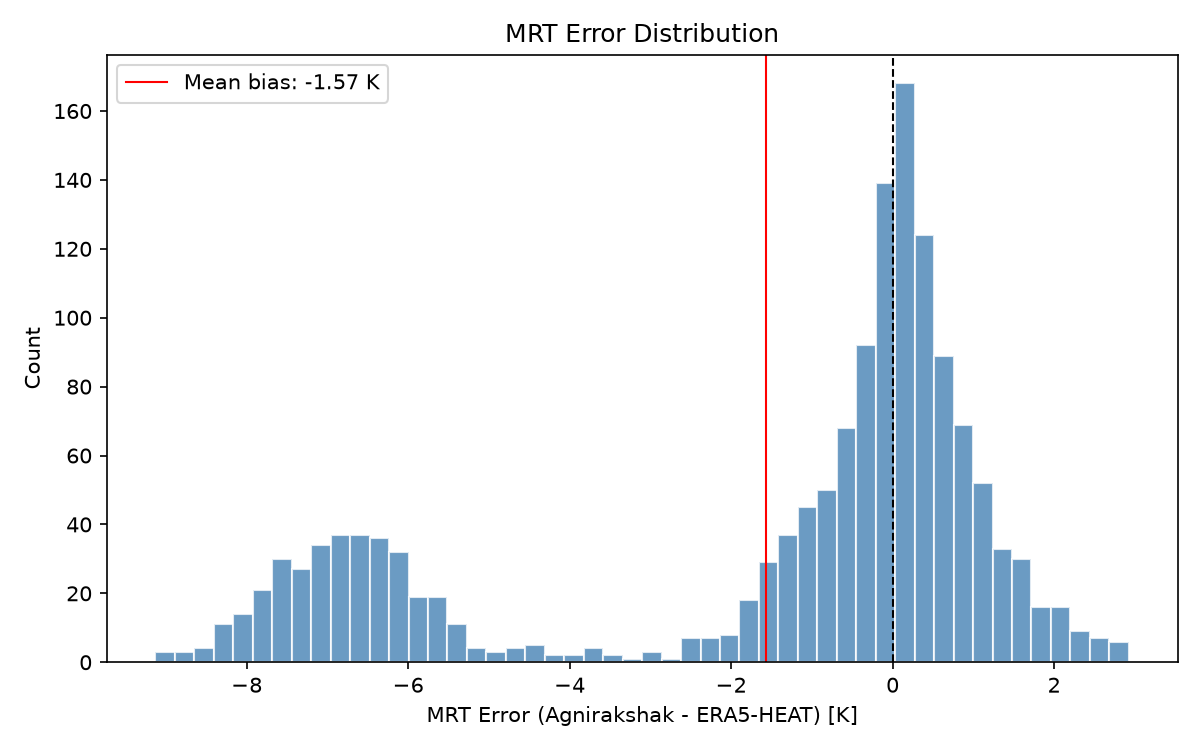
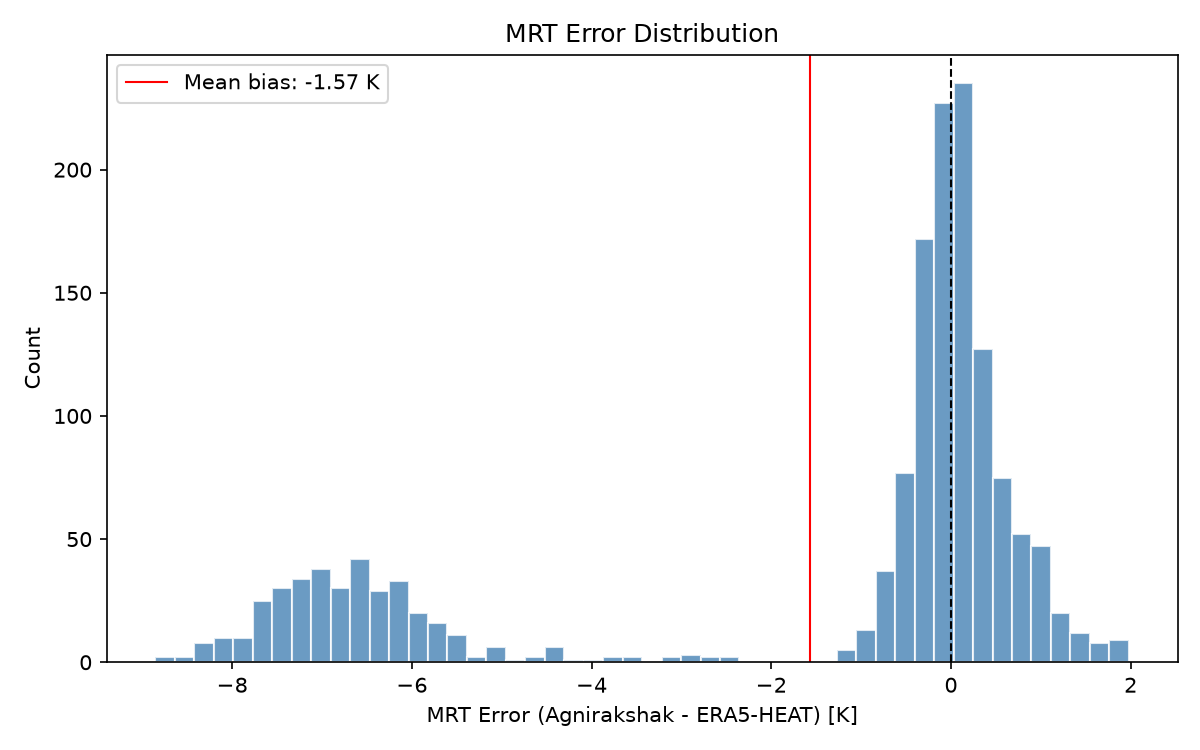
MRT validation: grid-alignment fix + updated metrics
- Add lat-flip in validate_mrt.py to handle reversed ERA5-HEAT lat grid
- Updated metrics: MAE 2.18->1.94 K, RMSE 3.45->3.37 K, nighttime MAE 0.57->0.27 K
- Updated plots and curated dataset
- Removed unused inspect_nc2.py

Low-sun residual (~6 K at elev<20 deg) remains as known limitation of
Di Napoli fp formula vs ERA5-HEAT implementation. High-sun match is
excellent (MAE 0.60 K, bias +0.39 K).

diff --git a/scripts/validate_mrt.py b/scripts/validate_mrt.py
@@ -147,6 +147,15 @@ def main():
     # Extract ERA5-HEAT MRT
     heat_mrt = ds_heat["mrt"].sel(valid_time=heat_common_mask).values
 
+    # Flip latitude axis if grids have different ordering
+    heat_lat = ds_heat["latitude"].values
+    rad_lat = ds_rad["latitude"].values
+    if not np.array_equal(heat_lat, rad_lat):
+        # Check if heat lat is reversed relative to rad lat
+        if np.array_equal(heat_lat, rad_lat[::-1]):
+            heat_mrt = heat_mrt[:, ::-1, :]
+            print(f"  NOTE: ERA5-HEAT lat grid reversed, flipping to match radiation grid")
+
     print(f"  ssrd:  [{np.nanmin(ssrd):.2f}, {np.nanmax(ssrd):.2f}] W/m2")
     print(f"  strd:  [{np.nanmin(strd):.2f}, {np.nanmax(strd):.2f}] W/m2")
     print(f"  fdir:  [{np.nanmin(fdir):.2f}, {np.nanmax(fdir):.2f}] W/m2")

diff --git a/docs/data/mrt_validation_v1.md b/docs/data/mrt_validation_v1.md
@@ -65,21 +65,21 @@ Implemented from Di Napoli et al. (2020) equations 6-12.
 | Metric | Value |
 |--------|-------|
 | N | 1488 |
-| MAE | 2.1823 K |
-| RMSE | 3.4467 K |
+| MAE | 1.9371 K |
+| RMSE | 3.3738 K |
 | Mean bias | -1.5651 K |
-| Median AE | 0.8655 K |
-| P95 AE | 7.4981 K |
-| R-squared | 0.971676 |
-| Correlation | 0.989749 |
+| Median AE | 0.4120 K |
+| P95 AE | 7.4009 K |
+| R-squared | 0.972862 |
+| Correlation | 0.990377 |
 
 ## 10. Stratified Results
 
 | Bin | N | MAE | Bias |
 |-----|---|-----|------|
-| (-90, 0] deg | 744 | 0.57 | -0.02 |
+| (-90, 0] deg | 744 | 0.27 | -0.02 |
 | (10, 20] deg | 372 | 6.60 | -6.60 |
-| (30, 90] deg | 372 | 0.98 | 0.39 |
+| (30, 90] deg | 372 | 0.60 | 0.39 |
 
 
 ## 11. Component Diagnostics
